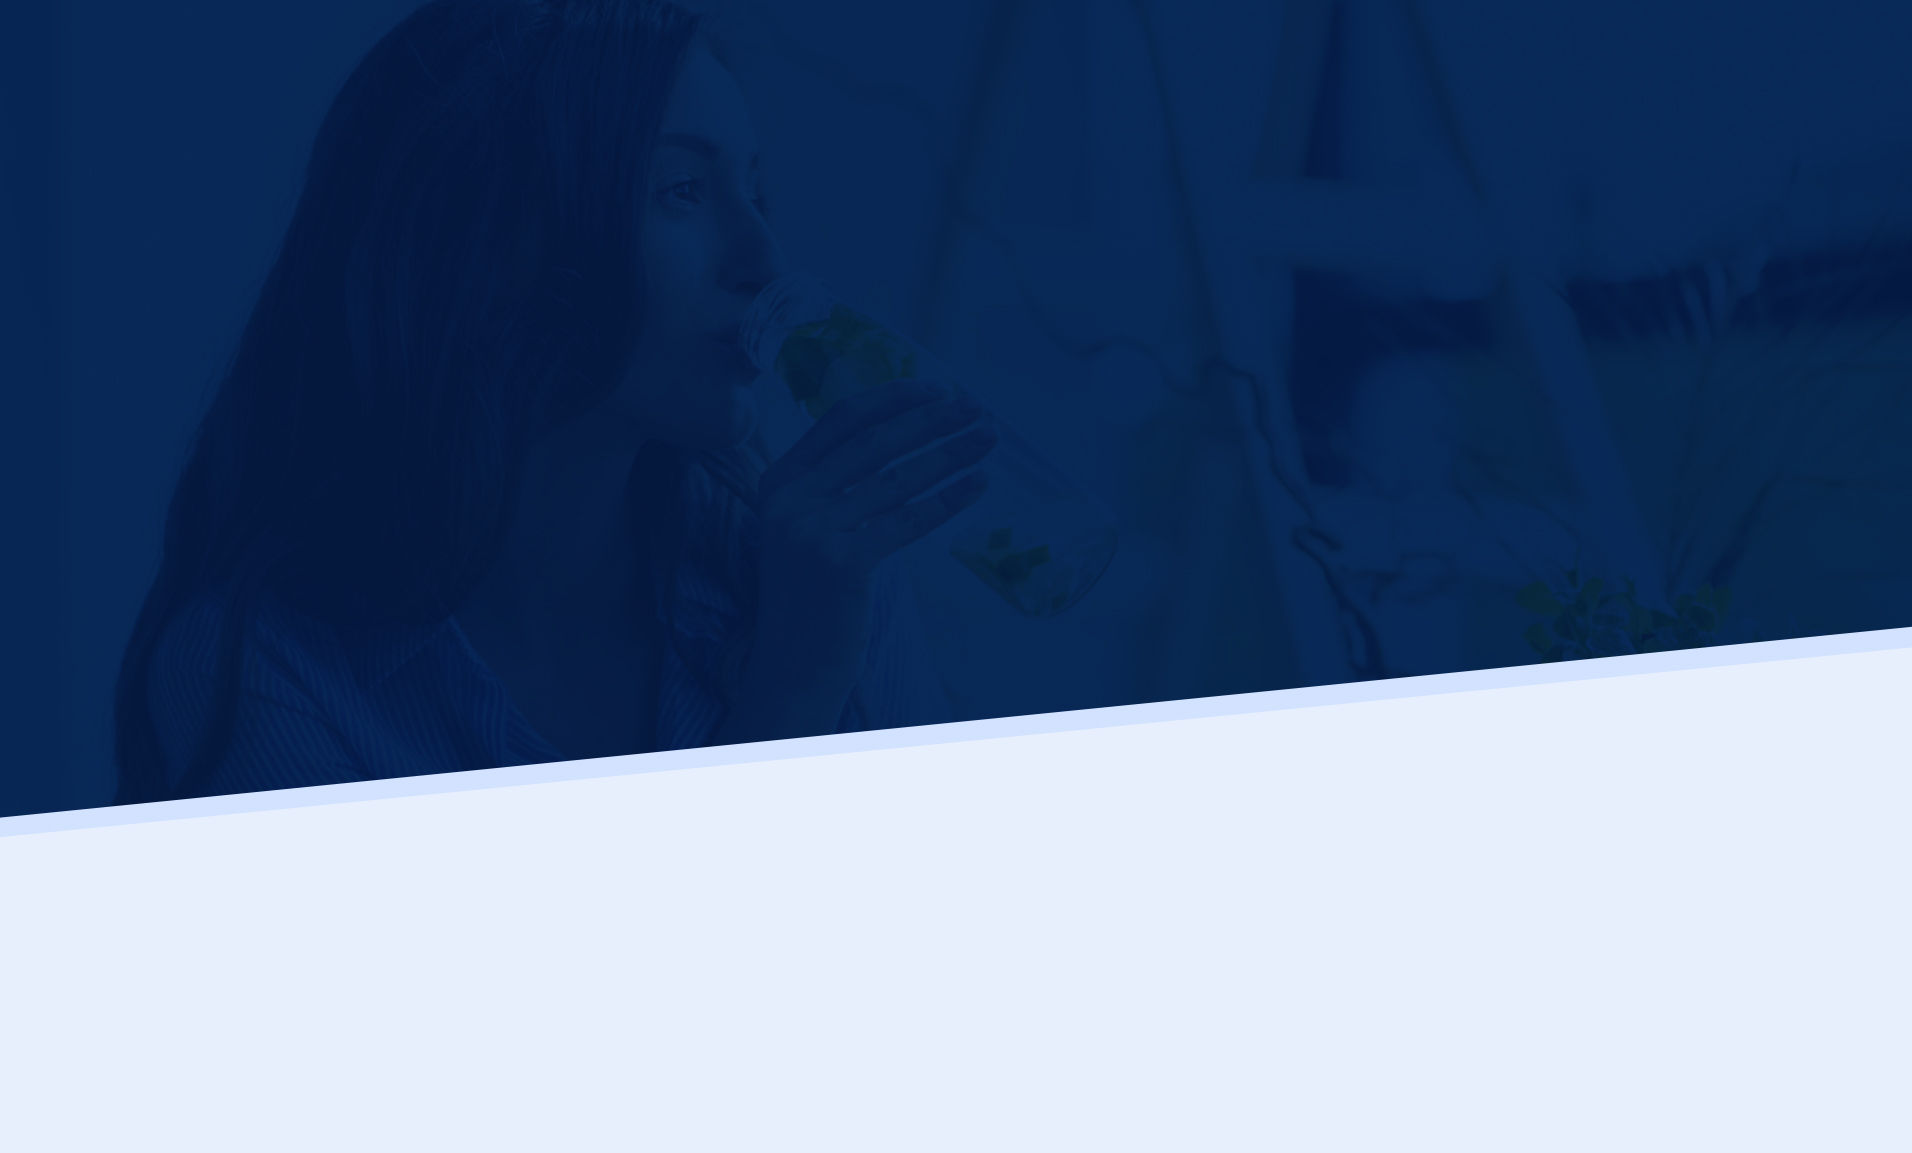
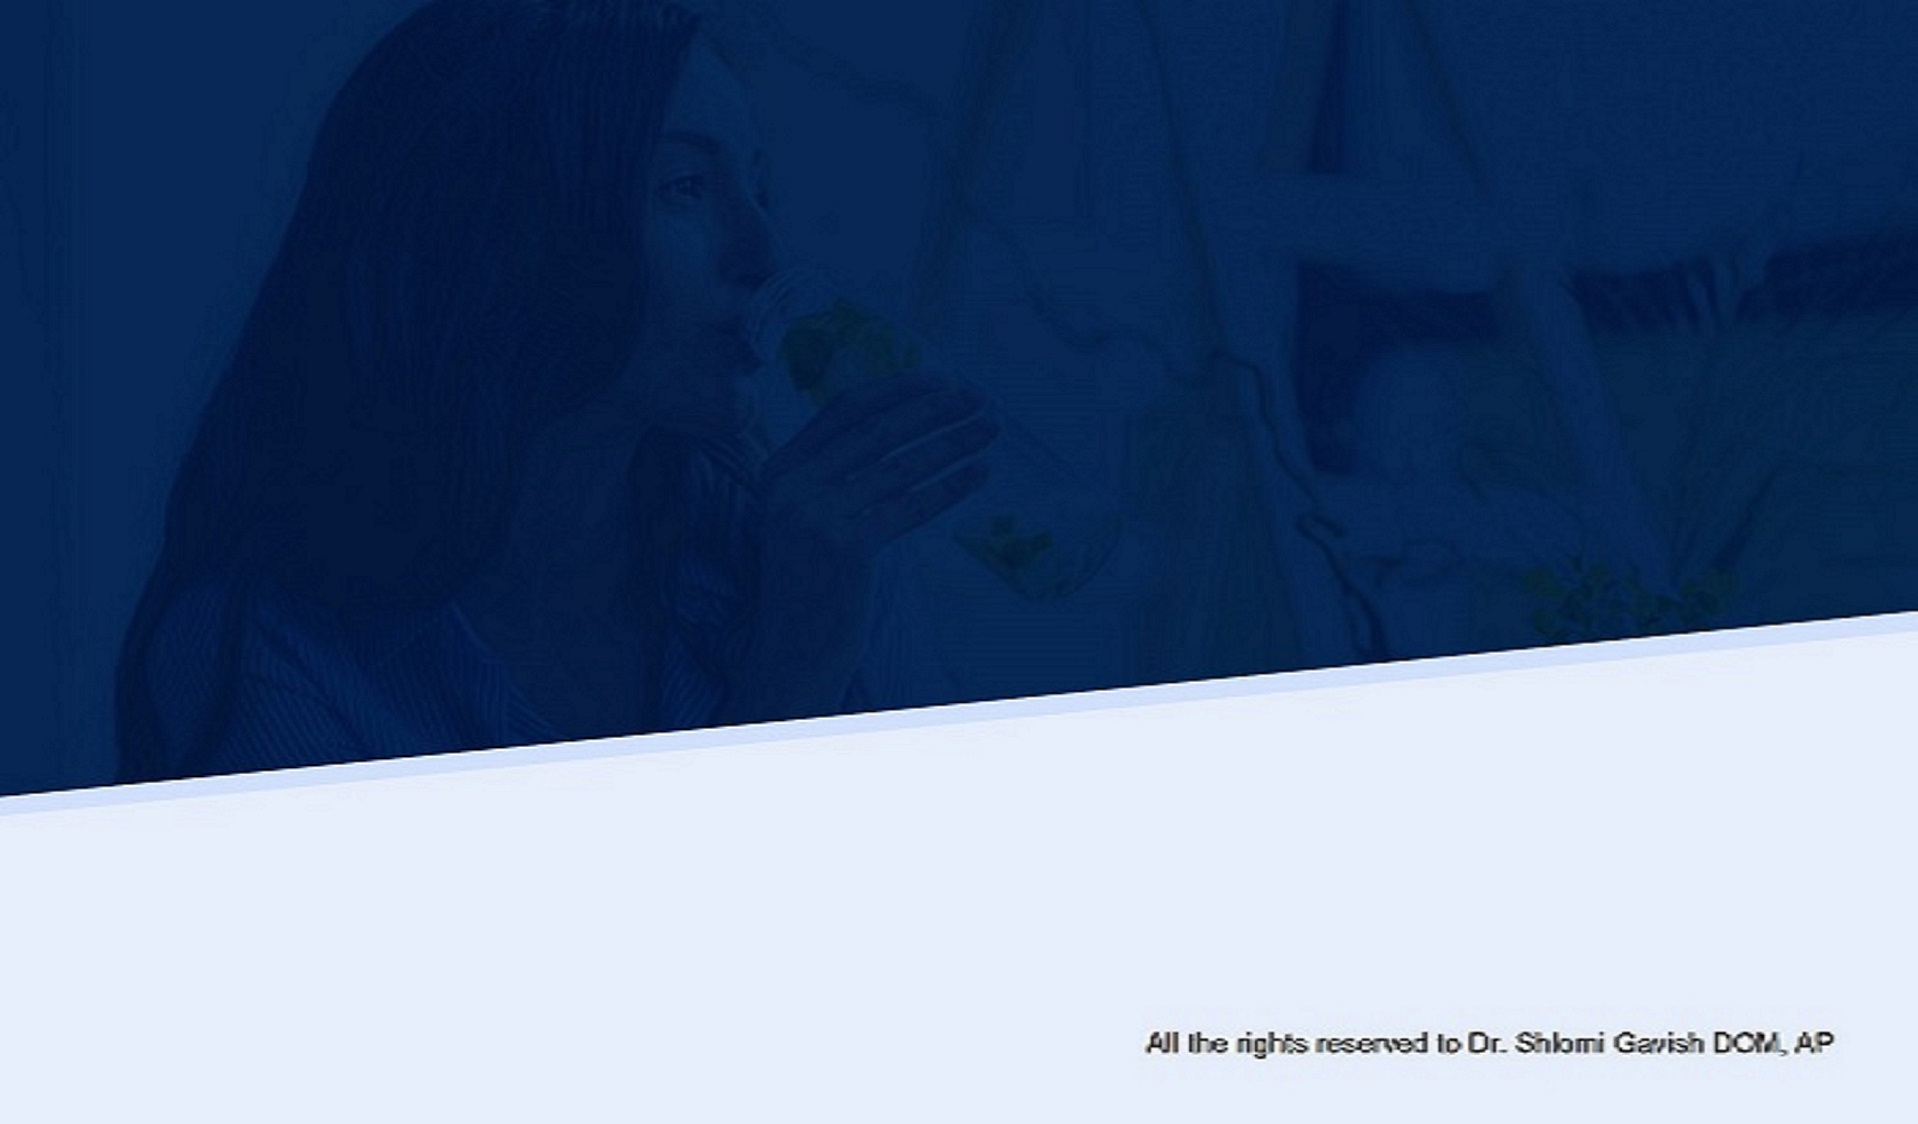
adding some [pic and graphs in result page

diff --git a/src/components/Results.jsx b/src/components/Results.jsx
@@ -2,6 +2,11 @@ import React, { useEffect, useState } from "react";
 import { Container, Box, Grid, Typography, Slide, Button } from "@mui/material";
 import bg from "../assets/image/bg.jpg";
 import EjectIcon from "@mui/icons-material/Eject";
+import dict from "../assets/image/dict.png";
+import dict1 from "../assets/image/dict1.png";
+import dict3 from "../assets/image/dict3.png";
+import Image from "next/image";
+import ArrowLeftIcon from "@mui/icons-material/ArrowLeft";
 function Results({ total = "0, 0, 0, 0, 0, 0, 0, 0, 0" }) {
   const [slide, setSlide] = useState(true);
 
@@ -65,10 +70,16 @@ function Results({ total = "0, 0, 0, 0, 0, 0, 0, 0, 0" }) {
   }, [totalScore]);
   return (
     <Box sx={style.bg}>
+      <Typography
+        variant="h6"
+        sx={{ color: "grey", position: "absolute", top: 20, right: 20 }}
+      >
+        All the rights reserved to Dr. Shlomi Gavish DOM, AP
+      </Typography>
       <Box sx={style.textBoxImg}>
         <Container sx={style.container}>
           <Typography sx={[style.mainHead, { textAlign: "center" }]}>
-            Result
+            Final Results
           </Typography>
 
           <Slide direction="left" in={slide} mountOnEnter unmountOnExit>
@@ -76,7 +87,10 @@ function Results({ total = "0, 0, 0, 0, 0, 0, 0, 0, 0" }) {
               container
               sx={[
                 style.Box,
-                { boxShadow: "7px 6px 13px -4px rgba(0,0,0,0.75)" },
+                {
+                  boxShadow: "7px 6px 13px -4px rgba(0,0,0,0.75)",
+                  overflowY: "scroll",
+                },
               ]}
             >
               {categoriges?.map((item, index) => (
@@ -114,7 +128,7 @@ function Results({ total = "0, 0, 0, 0, 0, 0, 0, 0, 0" }) {
                           width: "100%",
                           border: "2px solid black",
                           background:
-                            "linear-gradient(to right, red, yellow, green)",
+                            "linear-gradient(to right, green, yellow, red)",
                         }}
                       ></div>
                     </Box>
@@ -148,7 +162,7 @@ function Results({ total = "0, 0, 0, 0, 0, 0, 0, 0, 0" }) {
                   </Typography>
                   <Typography
                     variant="h5"
-                    sx={{ fontWeight: 600, marginTop: "1rem" }}
+                    sx={{ fontWeight: 900, marginTop: "1rem" }}
                   >
                     {sum}
                   </Typography>
@@ -170,17 +184,17 @@ function Results({ total = "0, 0, 0, 0, 0, 0, 0, 0, 0" }) {
                       width: "100%",
                       border: "2px solid black",
                       background:
-                        "linear-gradient(to right, red, yellow, green)",
+                        "linear-gradient(to right, green, yellow, red)",
                     }}
                   ></div>
                 </Box>
               </Box>
 
               <Typography
-                variant="h4"
-                sx={{ fontWeight: 800, textAlign: "center", color: "#072857" }}
+                variant="h5"
+                sx={{ fontWeight: 800, marginTop: "1rem" }}
               >
-                TOXICITY :
+                TOXICITY : {percentageTotal}%
               </Typography>
               <Box
                 sx={{
@@ -202,7 +216,7 @@ function Results({ total = "0, 0, 0, 0, 0, 0, 0, 0, 0" }) {
                     height: "50px",
                     width: "100%",
                     border: "2px solid black",
-                    background: "linear-gradient(to right, red, yellow, green)",
+                    background: "linear-gradient(to right, green, yellow, red)",
                   }}
                 ></div>{" "}
               </Box>
@@ -224,6 +238,110 @@ function Results({ total = "0, 0, 0, 0, 0, 0, 0, 0, 0" }) {
                   {percentageTotal || 0}%
                 </Box>
               </Box>
+              <Box sx={style.imagesCard}>
+                <Image
+                  src={dict}
+                  alt="image of ictionary"
+                  style={{ width: "80%", height: "90%" }}
+                />
+
+                <div
+                  style={{
+                    height: "90%",
+                    width: "5%",
+                    border: "2px solid black",
+                    background: "linear-gradient(to top, green, yellow, red)",
+                  }}
+                ></div>
+                <Box
+                  sx={{
+                    position: "relative",
+                    height: "97%",
+                    marginTop: "2.5rem",
+                  }}
+                >
+                  <Box
+                    sx={{
+                      position: "absolute",
+
+                      bottom: `${percentageTotal || 0}%`,
+                      display: "flex",
+                      flexDirection: "row",
+                    }}
+                  >
+                    <ArrowLeftIcon />
+                    {percentageTotal || 0}%
+                  </Box>
+                </Box>
+              </Box>
+              <Box sx={style.imageTwo}>
+                <Image
+                  src={dict3}
+                  alt="image of ictionary"
+                  style={{ width: "100%", height: "100%" }}
+                />
+
+                <div
+                  style={{
+                    height: "60px",
+                    width: "100%",
+                    border: "2px solid black",
+                    background: "linear-gradient(to right, green, yellow, red)",
+                  }}
+                ></div>
+                <Box
+                  sx={{
+                    position: "relative",
+                    marginBottom: "1rem",
+                  }}
+                >
+                  <Box
+                    sx={{
+                      position: "absolute",
+                      top: 0,
+                      bottom: `${percentageTotal || 0}%`,
+                      display: "flex",
+                      flexDirection: "column",
+                    }}
+                  >
+                    <EjectIcon />
+                    {percentageTotal || 0}%
+                  </Box>
+                </Box>
+              </Box>
+              <Box sx={style.imageTwo}>
+                <div
+                  style={{
+                    height: "60px",
+                    width: "100%",
+                    border: "2px solid black",
+                    background: "linear-gradient(to right, green, yellow, red)",
+                  }}
+                ></div>
+                <Box
+                  sx={{
+                    position: "relative",
+                  }}
+                >
+                  <Box
+                    sx={{
+                      position: "absolute",
+                      top: 0,
+                      bottom: `${percentageTotal || 0}%`,
+                      display: "flex",
+                      flexDirection: "column",
+                    }}
+                  >
+                    <EjectIcon />
+                    {percentageTotal || 0}%
+                  </Box>
+                </Box>
+                <Image
+                  src={dict1}
+                  alt="image of ictionary"
+                  style={{ width: "100%", height: "100%" }}
+                />
+              </Box>
             </Grid>
           </Slide>
         </Container>
@@ -234,6 +352,26 @@ function Results({ total = "0, 0, 0, 0, 0, 0, 0, 0, 0" }) {
 
 export default Results;
 const style = {
+  imagesCard: {
+    marginY: "2rem",
+    display: "flex",
+    flexDirection: "row",
+    alignItems: "center",
+    justifyContent: "center",
+    gap: "1rem",
+    width: "100%",
+    position: "relative",
+  },
+  imageTwo: {
+    marginY: "2rem",
+    display: "flex",
+    flexDirection: "column",
+    alignItems: "center",
+    justifyContent: "center",
+    gap: "1rem",
+    width: "100%",
+    position: "relative",
+  },
   container: {
     maxWidth: { xl: "900px" },
   },
@@ -252,6 +390,7 @@ const style = {
     backgroundColor: "white",
     borderRadius: "1rem",
     padding: "2rem",
+    height: "100vh",
   },
   Box1: {
     backgroundColor: "white",

diff --git a/src/components/CallengeQuestions.jsx b/src/components/CallengeQuestions.jsx
@@ -552,6 +552,12 @@ function CallengeQuestions() {
     <>
       {!form && (
         <Box sx={style.bg}>
+          <Typography
+            variant="h6"
+            sx={{ color: "grey", position: "absolute", top: 20, right: 20 }}
+          >
+            All the rights reserved to Dr. Shlomi Gavish DOM, AP
+          </Typography>
           <Box sx={style.textBoxImg}>
             <Container sx={style.container}>
               <Typography
@@ -756,7 +762,7 @@ function CallengeQuestions() {
               Detox{" "}
             </Typography>
             <Typography sx={style.mainSlogan} className={patua.className}>
-              Callenge Test Questionniare
+              Challenge Test Questionniare
             </Typography>
           </Box>
           <Container sx={style.container}>

diff --git a/src/components/HomePage.jsx b/src/components/HomePage.jsx
@@ -211,6 +211,12 @@ function HomePage() {
   return (
     <>
       <Box sx={style.bg}>
+        <Typography
+          variant="h6"
+          sx={{ color: "grey", position: "absolute", top: 20, right: 20 }}
+        >
+          All the rights reserved to Dr. Shlomi Gavish DOM, AP
+        </Typography>
         <Box sx={style.textBoxImg}>
           <Slide direction="left" in={slide} mountOnEnter unmountOnExit>
             <Container sx={style.container1}>
